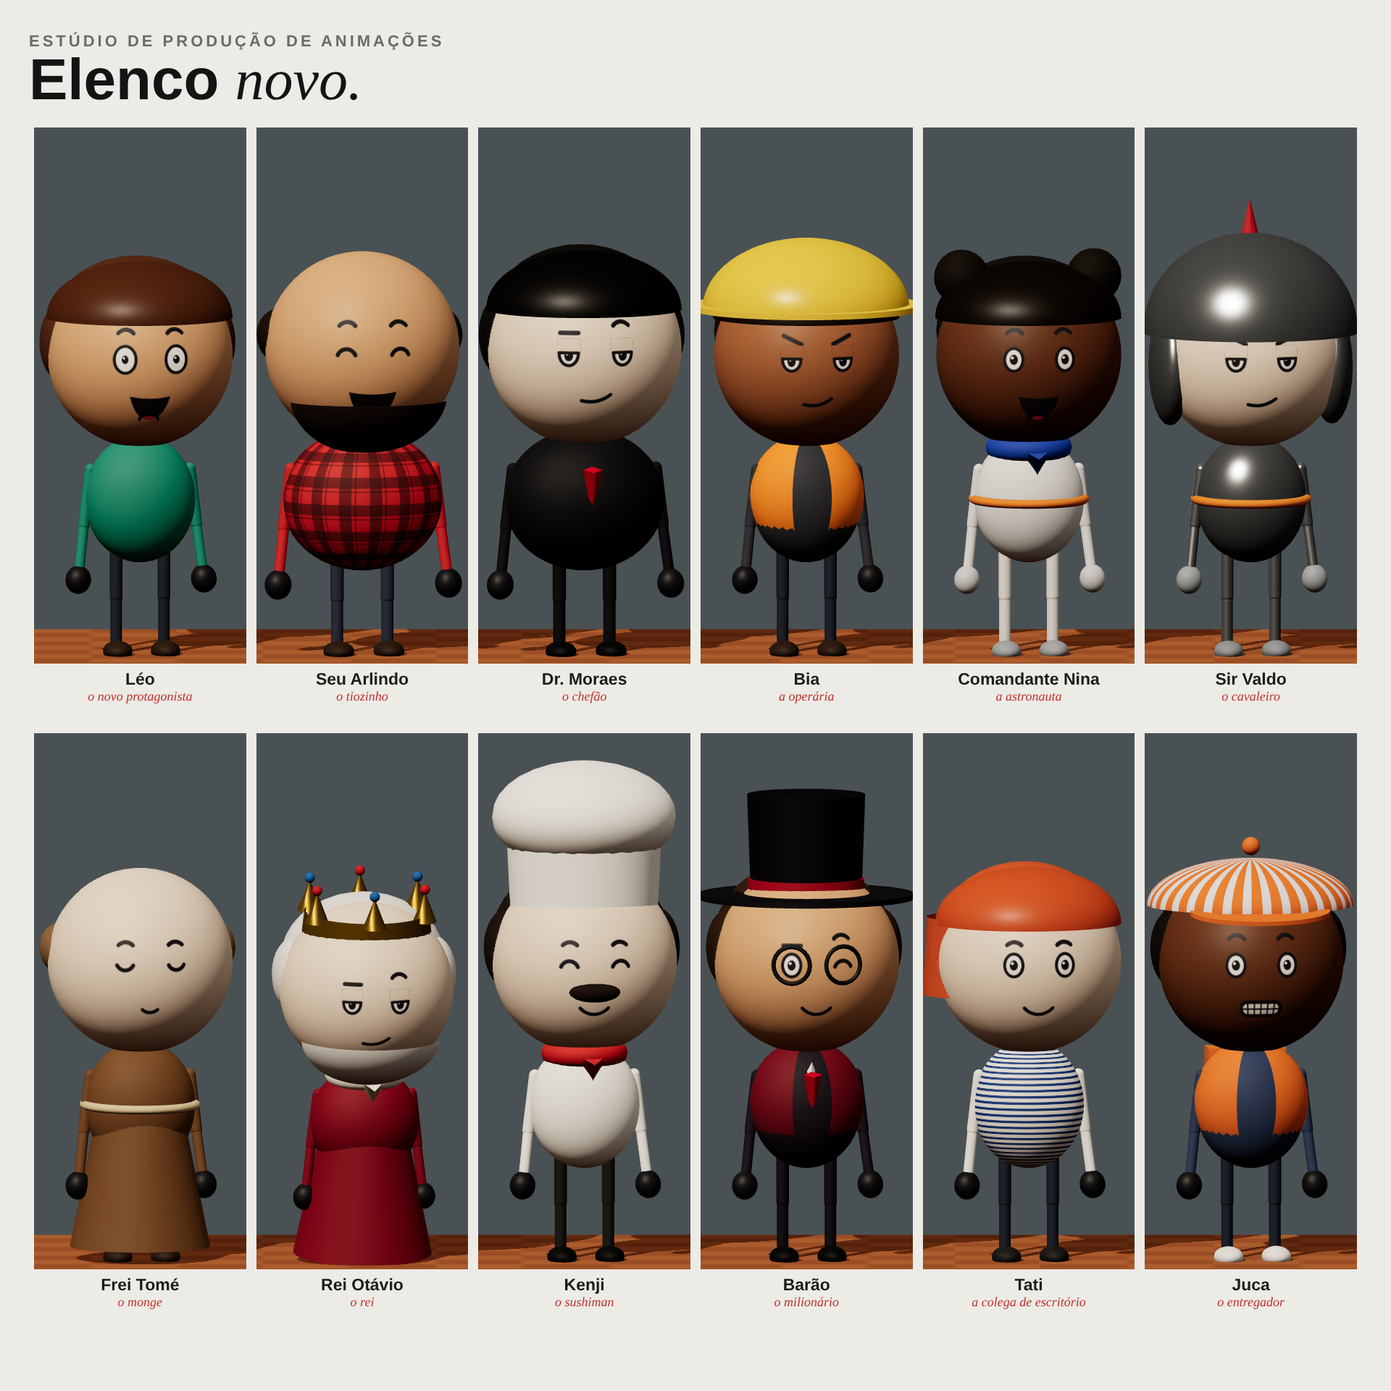
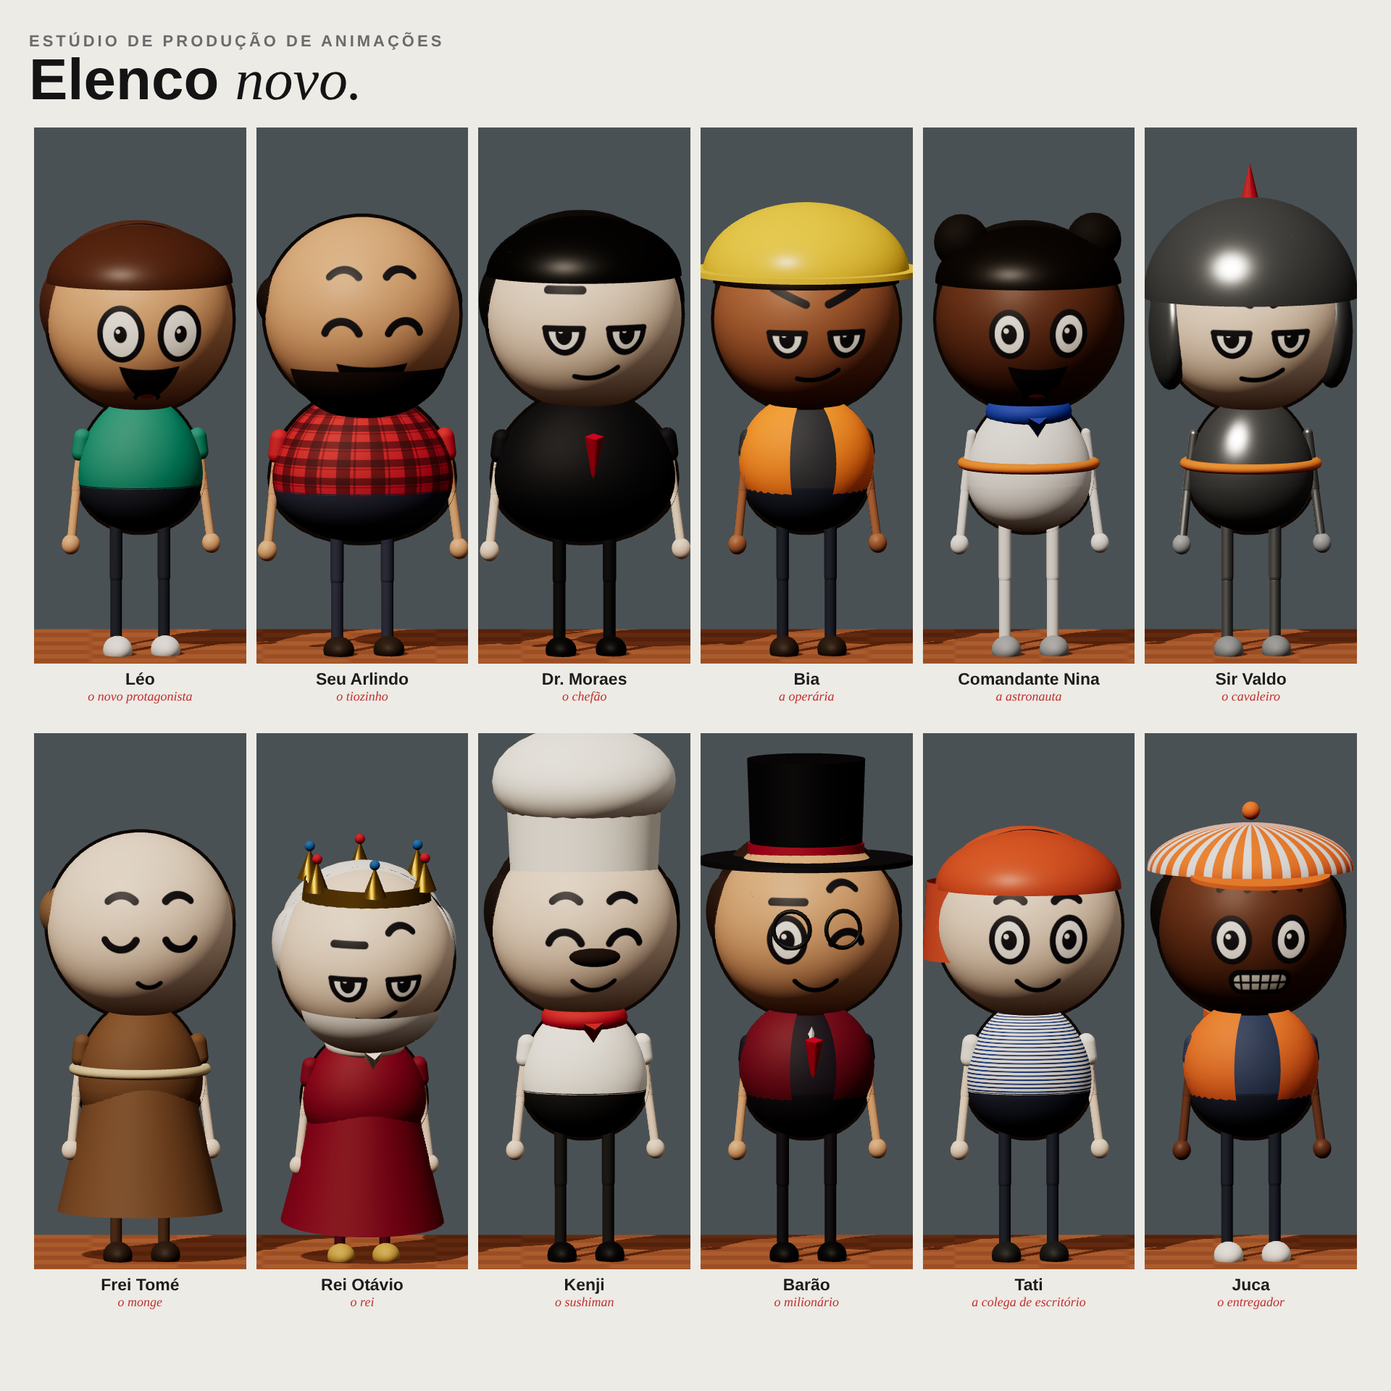
Estilo 'video': corpo e rosto iguais aos Shorts de referência
- Tronco em ovo (camisa em cima, calça embaixo), pernas mais longas, tronco maior
- Braço cor de pele com manguinha e mão pequena clara
- Olhos, sobrancelhas e boca maiores; contorno escuro na cabeça e no tronco
- Pálpebra (olho meio fechado) desenhada por recorte: some o retângulo claro
- Elenco novo (NOVOS) usa o estilo vídeo

Claude-Session: https://claude.ai/code/session_016bHbYKiNFahAkYpXj2UE3y

diff --git a/estudio-animacoes-3d/src/Character.tsx b/estudio-animacoes-3d/src/Character.tsx
@@ -81,6 +81,7 @@ export type Look = {
   metal?: boolean; // armadura
   backpack?: string; // mochila / tanque
   faixa?: string; // faixa colorida na cintura (macacão de astronauta, armadura em gomos)
+  estilo?: 'video'; // 'video' = corpo e rosto dos Shorts de referência (tronco-ovo, pernas longas, olhos grandes, contorno)
 };
 
 export const VOCE: Look = {
@@ -108,7 +109,7 @@ const Mat = ({ color, metal, ...p }: { color: string; metal?: boolean; map?: THR
   <meshStandardMaterial color={color} metalness={metal ? 0.85 : 0} roughness={metal ? 0.25 : p.roughness ?? 0.7} {...p} />
 );
 
-const FaceDecal = ({ face, skin }: { face: FaceState; skin: string }) => {
+const FaceDecal = ({ face, skin, escala = 1 }: { face: FaceState; skin: string; escala?: number }) => {
   const canvas = useMemo(() => {
     const c = document.createElement('canvas');
     c.width = c.height = 512;
@@ -120,9 +121,9 @@ const FaceDecal = ({ face, skin }: { face: FaceState; skin: string }) => {
     t.anisotropy = 8;
     return t;
   }, [canvas]);
-  const key = `${face.f}|${face.blink}|${face.o.join(',')}|${skin}`;
+  const key = `${face.f}|${face.blink}|${face.o.join(',')}|${skin}|${escala}`;
   useMemo(() => {
-    drawFace(canvas.getContext('2d')!, face.f, face.blink, face.o, skin);
+    drawFace(canvas.getContext('2d')!, face.f, face.blink, face.o, skin, escala);
     tex.needsUpdate = true;
   }, [key]); // eslint-disable-line react-hooks/exhaustive-deps
   const L = 1.95;
@@ -141,19 +142,61 @@ const Limb = ({ len, r, color, metal }: { len: number; r: number; color: string;
   </mesh>
 );
 
-const Arm = ({ side, sz, sx, el, look, sh, hand }: { side: 1 | -1; sz: number; sx: number; el: number; look: Look; sh: number; hand?: ReactNode }) => (
-  <group position={[side * sh, 1.0, 0]} rotation={new THREE.Euler(-sx, 0, side * sz, 'ZXY')}>
-    <Limb len={0.3} r={0.032} color={look.jacket} metal={look.metal} />
-    <group position={[0, -0.3, 0]} rotation={[-el, 0, 0]}>
-      <Limb len={0.27} r={0.028} color={look.coat ?? look.jacket} metal={look.metal} />
-      <group position={[0, -0.3, 0]}>
-        <mesh castShadow scale={[1, 1.1, 0.9]}>
-          <sphereGeometry args={[0.07, 16, 12]} />
-          <Mat color={look.gloves} roughness={0.5} />
+const Arm = ({ side, sz, sx, el, look, sh, hand }: { side: 1 | -1; sz: number; sx: number; el: number; look: Look; sh: number; hand?: ReactNode }) => {
+  // Estilo vídeo: braço cor de pele com manguinha curta e mão pequena clara (exceto armadura/macacão).
+  const V = look.estilo === 'video';
+  const nu = V && !look.metal && !look.coat && look.gloves !== look.jacket;
+  const braco = nu ? look.skin : look.jacket;
+  const mao = V && !look.metal ? (nu ? look.skin : look.gloves) : look.gloves;
+  return (
+    <group position={[side * sh, 1.0, 0]} rotation={new THREE.Euler(-sx, 0, side * sz, 'ZXY')}>
+      <Limb len={0.3} r={V ? 0.026 : 0.032} color={braco} metal={look.metal} />
+      {nu && (
+        <mesh position={[0, -0.06, 0]} castShadow>
+          <capsuleGeometry args={[0.05, 0.08, 4, 10]} />
+          <Mat color={look.jacket} />
         </mesh>
-        {hand}
+      )}
+      <group position={[0, -0.3, 0]} rotation={[-el, 0, 0]}>
+        <Limb len={0.27} r={V ? 0.024 : 0.028} color={nu ? look.skin : look.coat ?? look.jacket} metal={look.metal} />
+        <group position={[0, -0.3, 0]}>
+          <mesh castShadow scale={[1, 1.1, 0.9]}>
+            <sphereGeometry args={[V ? 0.05 : 0.07, 16, 12]} />
+            <Mat color={mao} roughness={0.5} />
+          </mesh>
+          {hand}
+        </group>
       </group>
     </group>
+  );
+};
+
+// Tronco em forma de ovo (estilo vídeo): mais largo embaixo; em cima a camisa, embaixo a calça.
+const ovoPontos = (de: number, ate: number) => {
+  const pts: THREE.Vector2[] = [];
+  for (let i = 0; i <= 20; i++) {
+    const th = de + ((ate - de) * i) / 20;
+    const R = 0.285 - 0.045 * Math.sin(th);
+    pts.push(new THREE.Vector2(Math.max(0.0001, R * Math.cos(th)), 0.3 * Math.sin(th)));
+  }
+  return pts;
+};
+const CORTE = -0.32; // onde a camisa encontra a calça (ângulo)
+const GEO_CAMISA = new THREE.LatheGeometry(ovoPontos(CORTE, Math.PI / 2), 40);
+const GEO_CALCA = new THREE.LatheGeometry(ovoPontos(-Math.PI / 2, CORTE + 0.02), 40);
+const GEO_OVO = new THREE.LatheGeometry(ovoPontos(-Math.PI / 2, Math.PI / 2), 40);
+const CONTORNO = '#1f1712';
+const TroncoOvo = ({ look, scale, map }: { look: Look; scale: [number, number, number]; map?: THREE.Texture }) => (
+  <group position={[0, 0.84, 0]} scale={scale}>
+    <mesh geometry={GEO_CAMISA} castShadow>
+      <Mat color={map ? '#ffffff' : look.jacket} map={map} metal={look.metal} side={THREE.DoubleSide} />
+    </mesh>
+    <mesh geometry={GEO_CALCA} castShadow>
+      <Mat color={look.skirt ? look.skirt.color : look.pants} metal={look.metal} side={THREE.DoubleSide} />
+    </mesh>
+    <mesh geometry={GEO_OVO} scale={1.045}>
+      <meshBasicMaterial color={CONTORNO} side={THREE.BackSide} />
+    </mesh>
   </group>
 );
 
@@ -553,50 +596,59 @@ export const Character = ({
   const swing = Math.sin(ph) * 0.55 * p.stride;
   const bob = Math.abs(Math.sin(ph)) * 0.07 * p.stride;
   const sq = 1 - p.squash * 0.18;
-  const dy = 0.55 * (b.legs - 1);
+  const V = look.estilo === 'video';
+  const pernas = b.legs * (V ? 1.35 : 1);
+  // Estilo vídeo: tronco maior em relação à cabeça, ombros mais abertos.
+  const torso: [number, number, number] = V ? [b.torso[0] * 1.18, b.torso[1] * 1.08, b.torso[2] * 1.18] : b.torso;
+  const ombro = V ? b.sh * 1.15 : b.sh;
+  const dy = 0.55 * (pernas - 1);
   const torsoMap = look.pattern && look.pattern !== 'liso' ? patternTex(look.pattern, look.jacket, look.pattern2 ?? '#f4f0e8', look.patternH) : undefined;
   return (
     <group position={[p.x, p.y + bob, p.z]} rotation={[0, p.ry, 0]} scale={b.s}>
-      <group scale={[1, b.legs, 1]}>
+      <group scale={[1, pernas, 1]}>
         <Leg side={1} swing={swing} tap={p.ltap} look={look} />
         <Leg side={-1} swing={-swing} tap={p.rtap} look={look} />
       </group>
       <group position={[0, 0.55 + dy, 0]} scale={[2 - sq, sq, 2 - sq]}>
         <group rotation={[p.lean + b.lean, p.twist, p.side]} position={[0, -0.55, 0]}>
           {/* Tronco arredondado */}
-          <mesh position={[0, 0.84, 0]} scale={b.torso} castShadow>
-            <sphereGeometry args={[0.3, 32, 24]} />
-            <Mat color={torsoMap ? '#ffffff' : look.jacket} map={torsoMap} metal={look.metal} />
-          </mesh>
+          {V ? (
+            <TroncoOvo look={look} scale={torso} map={torsoMap} />
+          ) : (
+            <mesh position={[0, 0.84, 0]} scale={b.torso} castShadow>
+              <sphereGeometry args={[0.3, 32, 24]} />
+              <Mat color={torsoMap ? '#ffffff' : look.jacket} map={torsoMap} metal={look.metal} />
+            </mesh>
+          )}
           {look.faixa && (
-            <mesh position={[0, 0.84, 0]} scale={b.torso} rotation={[Math.PI / 2, 0, 0]}>
+            <mesh position={[0, 0.84, 0]} scale={torso} rotation={[Math.PI / 2, 0, 0]}>
               <torusGeometry args={[0.298, 0.028, 10, 40]} />
               <Mat color={look.faixa} />
             </mesh>
           )}
           {look.backpack && (
-            <mesh position={[0, 0.88, -0.3 * b.torso[2]]} castShadow>
+            <mesh position={[0, 0.88, -0.3 * torso[2]]} castShadow>
               <boxGeometry args={[0.42, 0.5, 0.2]} />
               <Mat color={look.backpack} />
             </mesh>
           )}
-          {look.coat && <OpenShell color={look.coat} scale={[b.torso[0] * 1.05, b.torso[1] * 1.05, b.torso[2] * 1.06]} />}
+          {look.coat && <OpenShell color={look.coat} scale={[torso[0] * 1.05, torso[1] * 1.05, torso[2] * 1.06]} />}
           {look.coat && (
             <mesh position={[0, 0.55, 0]} castShadow>
-              <cylinderGeometry args={[0.29 * b.torso[0], 0.34 * b.torso[0], 0.5, 32, 1, true, Math.PI / 2 + 0.45, Math.PI * 2 - 0.9]} />
+              <cylinderGeometry args={[0.29 * torso[0], 0.34 * torso[0], 0.5, 32, 1, true, Math.PI / 2 + 0.45, Math.PI * 2 - 0.9]} />
               <Mat color={look.coat} side={THREE.DoubleSide} />
             </mesh>
           )}
-          {look.vest && <OpenShell color={look.vest} scale={[b.torso[0] * 1.04, b.torso[1] * 0.96, b.torso[2] * 1.05]} gap={0.35} y={0.86} />}
+          {look.vest && <OpenShell color={look.vest} scale={[torso[0] * 1.04, torso[1] * 0.96, torso[2] * 1.05]} gap={0.35} y={0.86} />}
           {look.skirt && (
             <mesh position={[0, look.skirt.long ? 0.42 : 0.62, 0]} castShadow>
-              <cylinderGeometry args={[0.24 * b.torso[0], (look.skirt.long ? 0.38 : 0.32) * b.torso[0], look.skirt.long ? 0.7 : 0.3, 32]} />
+              <cylinderGeometry args={[0.24 * torso[0], (look.skirt.long ? 0.38 : 0.32) * torso[0], look.skirt.long ? 0.7 : 0.3, 32]} />
               <Mat color={look.skirt.color} />
             </mesh>
           )}
           {look.apron && (
-            <mesh position={[0, 0.7, 0.27 * b.torso[2]]} rotation={[0.08, 0, 0]}>
-              <planeGeometry args={[0.36 * b.torso[0], 0.62]} />
+            <mesh position={[0, 0.7, 0.27 * torso[2]]} rotation={[0.08, 0, 0]}>
+              <planeGeometry args={[0.36 * torso[0], 0.62]} />
               <Mat color={look.apron} side={THREE.DoubleSide} />
             </mesh>
           )}
@@ -607,7 +659,7 @@ export const Character = ({
             </mesh>
           )}
           {look.tie && (
-            <mesh position={[0, 0.9, 0.255 * b.torso[2] / 0.85]} rotation={[0.25, 0, Math.PI]}>
+            <mesh position={[0, 0.9, 0.255 * torso[2] / 0.85]} rotation={[0.25, 0, Math.PI]}>
               <coneGeometry args={[0.05, 0.26, 4]} />
               <Mat color={look.tie} roughness={0.5} />
             </mesh>
@@ -631,8 +683,8 @@ export const Character = ({
                 <Mat color="#efeee8" roughness={0.9} />
               </mesh>
             ))}
-          <Arm side={1} sz={p.lsz} sx={p.lsx} el={p.lel} look={look} sh={b.sh} hand={left} />
-          <Arm side={-1} sz={p.rsz} sx={p.rsx} el={p.rel} look={look} sh={b.sh} hand={right} />
+          <Arm side={1} sz={p.lsz} sx={p.lsx} el={p.lel} look={look} sh={ombro} hand={left} />
+          <Arm side={-1} sz={p.rsz} sx={p.rsx} el={p.rel} look={look} sh={ombro} hand={right} />
           {/* Cabeça */}
           <group position={[0, 1.18, 0]} rotation={new THREE.Euler(p.hp, p.hy, p.hr, 'YXZ')}>
             <group position={[0, (HEAD_Y - 1.18) * b.head, 0]} scale={b.head}>
@@ -640,7 +692,13 @@ export const Character = ({
                 <sphereGeometry args={[HEAD_R, 48, 32]} />
                 <Mat color={look.skin} roughness={0.55} />
               </mesh>
-              <FaceDecal face={face} skin={look.skin} />
+              {V && (
+                <mesh scale={1.035}>
+                  <sphereGeometry args={[HEAD_R, 40, 28]} />
+                  <meshBasicMaterial color={CONTORNO} side={THREE.BackSide} />
+                </mesh>
+              )}
+              <FaceDecal face={face} skin={look.skin} escala={V ? 1.95 : 1} />
               <Hair look={look} />
               <Beard look={look} />
               <Eyewear look={look} />

diff --git a/estudio-animacoes-3d/src/personagens.ts b/estudio-animacoes-3d/src/personagens.ts
@@ -147,50 +147,50 @@ export const ROUPAS = {
 export const NOVOS = {
   leo: {
     nome: 'Léo', papel: 'o novo protagonista', rosto: 'bigSmile',
-    look: { skin: PELE.media, jacket: '#2f8f7a', pants: '#2e3442', shoes: '#3a2a1e', gloves: MAO, hair: '#5b351f', hairStyle: 'liso' },
+    look: { estilo: 'video', skin: PELE.media, jacket: '#2f8f7a', pants: '#2e3442', shoes: '#e6e6ea', gloves: MAO, hair: '#5b351f', hairStyle: 'liso' },
   },
   arlindo: {
     nome: 'Seu Arlindo', papel: 'o tiozinho', rosto: 'laugh',
-    look: { skin: PELE.media, jacket: '#c8352f', pattern: 'xadrez', pattern2: '#3a1414', pants: '#3a3f55', shoes: '#3a2a1e', gloves: MAO, hair: '#2a1a12', hairStyle: 'careca', beard: 'barba', body: 'forte' },
+    look: { estilo: 'video', skin: PELE.media, jacket: '#c8352f', pattern: 'xadrez', pattern2: '#3a1414', pants: '#3a3f55', shoes: '#3a2a1e', gloves: MAO, hair: '#2a1a12', hairStyle: 'careca', beard: 'barba', body: 'forte' },
   },
   moraes: {
     nome: 'Dr. Moraes', papel: 'o chefão', rosto: 'smug',
-    look: { skin: PELE.clara, jacket: '#16171c', pants: '#16171c', shoes: '#0c0c0e', gloves: MAO, hair: '#0f0c0a', hairStyle: 'liso', shirt: '#ffffff', tie: '#c8242a', body: 'forte' },
+    look: { estilo: 'video', skin: PELE.clara, jacket: '#16171c', pants: '#16171c', shoes: '#0c0c0e', gloves: MAO, hair: '#0f0c0a', hairStyle: 'liso', shirt: '#ffffff', tie: '#c8242a', body: 'forte' },
   },
   bia: {
     nome: 'Bia', papel: 'a operária', rosto: 'confident',
-    look: { skin: PELE.morena, jacket: '#3d4048', pants: '#2c3346', shoes: '#3a2a1e', gloves: MAO, hair: '#2a1a12', hairStyle: 'rabo', vest: '#ff8a1e', hat: 'capacete', hatColor: '#f2c62e' },
+    look: { estilo: 'video', skin: PELE.morena, jacket: '#3d4048', pants: '#2c3346', shoes: '#3a2a1e', gloves: MAO, hair: '#2a1a12', hairStyle: 'rabo', vest: '#ff8a1e', hat: 'capacete', hatColor: '#f2c62e' },
   },
   nina: {
     nome: 'Comandante Nina', papel: 'a astronauta', rosto: 'happy',
-    look: { skin: PELE.escura, jacket: '#e4e6ea', pants: '#e4e6ea', shoes: '#9aa0a8', gloves: '#c8ccd2', hair: '#1a120c', hairStyle: 'coque', faixa: '#e8822a', scarf: '#3256b8' },
+    look: { estilo: 'video', skin: PELE.escura, jacket: '#e4e6ea', pants: '#e4e6ea', shoes: '#9aa0a8', gloves: '#e4e6ea', hair: '#1a120c', hairStyle: 'coque', faixa: '#e8822a', scarf: '#3256b8' },
   },
   valdo: {
     nome: 'Sir Valdo', papel: 'o cavaleiro', rosto: 'confident',
-    look: { skin: PELE.clara, jacket: '#b9c0c8', pants: '#b9c0c8', shoes: '#8a9098', gloves: '#9aa2ab', hair: '#3a2416', hat: 'cavaleiro', metal: true, faixa: '#e8822a' },
+    look: { estilo: 'video', skin: PELE.clara, jacket: '#b9c0c8', pants: '#b9c0c8', shoes: '#8a9098', gloves: '#9aa2ab', hair: '#3a2416', hat: 'cavaleiro', metal: true, faixa: '#e8822a' },
   },
   tome: {
     nome: 'Frei Tomé', papel: 'o monge', rosto: 'content',
-    look: { skin: PELE.clara, jacket: '#7a5634', pants: '#5a3e26', shoes: '#3a2a1e', gloves: MAO, hair: '#8a6a4a', hairStyle: 'careca', skirt: { color: '#7a5634', long: true }, faixa: '#d8c49a' },
+    look: { estilo: 'video', skin: PELE.clara, jacket: '#7a5634', pants: '#5a3e26', shoes: '#3a2a1e', gloves: MAO, hair: '#8a6a4a', hairStyle: 'careca', skirt: { color: '#7a5634', long: true }, faixa: '#d8c49a' },
   },
   otavio: {
     nome: 'Rei Otávio', papel: 'o rei', rosto: 'smug',
-    look: { skin: PELE.clara, jacket: '#8a1f2a', pants: '#5a1420', shoes: '#c9a14a', gloves: MAO, hair: '#e6e6e6', beard: 'barba', hat: 'coroa', scarf: '#f4f0e8', skirt: { color: '#8a1f2a', long: true }, body: 'idoso' },
+    look: { estilo: 'video', skin: PELE.clara, jacket: '#8a1f2a', pants: '#5a1420', shoes: '#c9a14a', gloves: MAO, hair: '#e6e6e6', beard: 'barba', hat: 'coroa', scarf: '#f4f0e8', skirt: { color: '#8a1f2a', long: true }, body: 'idoso' },
   },
   kenji: {
     nome: 'Kenji', papel: 'o sushiman', rosto: 'closedSmile',
-    look: { skin: PELE.clara, jacket: '#fbfbf8', pants: '#2a2a2a', shoes: '#111', gloves: MAO, hair: '#2a1e18', beard: 'bigode', hat: 'chef', scarf: '#c8352f' },
+    look: { estilo: 'video', skin: PELE.clara, jacket: '#fbfbf8', pants: '#2a2a2a', shoes: '#111', gloves: MAO, hair: '#2a1e18', beard: 'bigode', hat: 'chef', scarf: '#c8352f' },
   },
   barao: {
     nome: 'Barão', papel: 'o milionário', rosto: 'wink',
-    look: { skin: PELE.media, jacket: '#2a2230', pants: '#1f1a24', shoes: '#0c0c0e', gloves: MAO, hair: '#3a2416', hat: 'cartola', hatColor: '#141218', shirt: '#ffffff', tie: '#c8242a', vest: '#7a1f2a', eyewear: 'grau' },
+    look: { estilo: 'video', skin: PELE.media, jacket: '#2a2230', pants: '#1f1a24', shoes: '#0c0c0e', gloves: MAO, hair: '#3a2416', hat: 'cartola', hatColor: '#141218', shirt: '#ffffff', tie: '#c8242a', vest: '#7a1f2a', eyewear: 'grau' },
   },
   tati: {
     nome: 'Tati', papel: 'a colega de escritório', rosto: 'smile',
-    look: { skin: PELE.clara, jacket: '#f4f4f2', pattern: 'listras', pattern2: '#2f4f8f', patternH: true, pants: '#2c3346', shoes: '#2a2a2a', gloves: MAO, hair: '#c8572b', hairStyle: 'chanel' },
+    look: { estilo: 'video', skin: PELE.clara, jacket: '#f4f4f2', pattern: 'listras', pattern2: '#2f4f8f', patternH: true, pants: '#2c3346', shoes: '#2a2a2a', gloves: MAO, hair: '#c8572b', hairStyle: 'chanel' },
   },
   juca: {
     nome: 'Juca', papel: 'o entregador', rosto: 'grin',
-    look: { skin: PELE.escura, jacket: '#3a4a6a', pants: '#2c3346', shoes: '#f2f2f2', gloves: MAO, hair: '#1a120c', hat: 'bone', hatColor: '#e8742a', vest: '#e8742a', backpack: '#e8742a' },
+    look: { estilo: 'video', skin: PELE.escura, jacket: '#3a4a6a', pants: '#2c3346', shoes: '#f2f2f2', gloves: MAO, hair: '#1a120c', hat: 'bone', hatColor: '#e8742a', vest: '#e8742a', backpack: '#e8742a' },
   },
 } satisfies Record<string, Membro>;

diff --git a/estudio-animacoes-3d/src/textures.ts b/estudio-animacoes-3d/src/textures.ts
@@ -127,17 +127,20 @@ const drawEye = (c: CanvasRenderingContext2D, kind: Eyes, x: number, y: number, 
       return side < 0 ? open(26, 32, 12) : drawEye(c, 'happy', x, y, side, skin);
     case 'half':
     case 'angry': {
-      open(26, 32, 12, 0, 6);
-      c.fillStyle = skin;
+      // Desenha só a parte do olho abaixo da pálpebra (recorte), sem pintar cor de pele por cima:
+      // assim não aparece um retângulo de outra cor sobre o rosto.
+      c.save();
       c.beginPath();
-      if (kind === 'half') c.rect(x - 32, y - 40, 64, 38);
+      if (kind === 'half') c.rect(x - 40, y - 2, 80, 60);
       else {
-        c.moveTo(x - 34, y - 40 + (side < 0 ? 0 : 22));
-        c.lineTo(x + 34, y - 40 + (side < 0 ? 22 : 0));
-        c.lineTo(x + 34, y - 44);
-        c.lineTo(x - 34, y - 44);
+        c.moveTo(x - 40, y - 34 + (side < 0 ? 4 : 22) + (side < 0 ? -2 : 0));
+        c.lineTo(x + 40, y - 34 + (side < 0 ? 22 : 4));
+        c.lineTo(x + 40, y + 60);
+        c.lineTo(x - 40, y + 60);
       }
-      c.fill();
+      c.clip();
+      open(26, 32, 12, 0, 6);
+      c.restore();
       line(c, 9);
       c.beginPath();
       if (kind === 'half') {
@@ -387,7 +390,18 @@ export const useFacesReady = () => {
 };
 
 // Desenha o rosto no canvas. blink: 0 aberto, 0.5 meio fechado, 1 fechado.
-export function drawFace(c: CanvasRenderingContext2D, face: FaceName, blink: number, overlays: OverlayName[], skin: string) {
+// escala > 1 = olhos, sobrancelhas e boca maiores (estilo dos Shorts de referência), olhos um pouco mais baixos e afastados.
+const olhos = (escala: number): [number, number][] =>
+  escala > 1 ? EYES.map(([x, y], i) => [x + (i === 0 ? -14 : 14), y + 30] as [number, number]) : EYES;
+const emVolta = (c: CanvasRenderingContext2D, x: number, y: number, k: number, draw: () => void) => {
+  c.save();
+  c.translate(x, y);
+  c.scale(k, k);
+  c.translate(-x, -y);
+  draw();
+  c.restore();
+};
+export function drawFace(c: CanvasRenderingContext2D, face: FaceName, blink: number, overlays: OverlayName[], skin: string, escala = 1) {
   c.clearRect(0, 0, 512, 512);
   if (overlays.includes('shading')) {
     const s = imgs[OVERLAYS.shading];
@@ -398,14 +412,19 @@ export function drawFace(c: CanvasRenderingContext2D, face: FaceName, blink: num
   if (kit) c.drawImage(kit, 0, 0);
   else {
     const [e, b, m] = RECEITA[face];
-    EYES.forEach(([x, y], i) => {
-      drawBrow(c, b, x, y, i === 0 ? -1 : 1);
-      drawEye(c, e, x, y, i === 0 ? -1 : 1, skin);
+    olhos(escala).forEach(([x, y], i) =>
+      emVolta(c, x, y, escala, () => {
+        drawBrow(c, b, x, y, i === 0 ? -1 : 1);
+        drawEye(c, e, x, y, i === 0 ? -1 : 1, skin);
+      }),
+    );
+    emVolta(c, 256, escala > 1 ? 345 : 335, 1 + (escala - 1) * 0.6, () => {
+      if (escala > 1) c.translate(0, 18);
+      drawMouth(c, m);
     });
-    drawMouth(c, m);
   }
   if (blink > 0) {
-    for (const [x, y] of EYES) {
+    for (const [x, y] of olhos(escala)) emVolta(c, x, y, escala, () => {
       c.fillStyle = skin;
       c.beginPath();
       if (blink >= 1) c.ellipse(x, y, 42, 46, 0, 0, Math.PI * 2);
@@ -419,7 +438,7 @@ export function drawFace(c: CanvasRenderingContext2D, face: FaceName, blink: num
         c.lineTo(x + 30, y + 2);
       }
       c.stroke();
-    }
+    });
   }
   for (const o of overlays) {
     if (o === 'shading') continue;

diff --git a/estudio-animacoes-3d/CLAUDE.md b/estudio-animacoes-3d/CLAUDE.md
@@ -177,7 +177,7 @@ o segundo em que a palavra começa (linha começa em 0; busca pelo começo da pa
   `body` ('adulto' | 'magro' | 'forte' | 'crianca' | 'idoso' | 'baixo'),
   `hairStyle` ('curto' | 'liso' | 'longo' | 'coque' | 'crespo' | 'careca' | 'chanel' | 'rabo' | 'nenhum'),
   `hat` + `hatColor` ('bone' | 'gorro' | 'touca' | 'boina' | 'policia' | 'chef' | 'capacete' | 'explorador' | 'astronauta' |
-  'cavaleiro' | 'farao' | 'marinheiro' | 'piloto' | 'capuz' | 'coroa' | 'cartola'), `faixa` (faixa colorida na cintura), `eyewear` ('grau' | 'escuro' | 'mergulho' | 'aviador'),
+  'cavaleiro' | 'farao' | 'marinheiro' | 'piloto' | 'capuz' | 'coroa' | 'cartola'), `faixa` (faixa colorida na cintura), `estilo: 'video'` (corpo e rosto dos Shorts de referência: tronco em ovo camisa+calça, pernas longas, braço cor de pele com manguinha, olhos grandes e contorno escuro — o elenco novo já usa), `eyewear` ('grau' | 'escuro' | 'mergulho' | 'aviador'),
   `beard` ('bigode' | 'barba'), `pattern` + `pattern2` + `patternH` ('listras' | 'xadrez' | 'florido' | 'acolchoado'),
   `coat` (jaleco), `vest` (colete), `apron` (avental), `skirt` ({ color, long }), `shorts`, `scarf`, `tie`, `shirt`,
   `metal` (armadura), `backpack` (mochila/tanque). Mãos claras: `gloves` = cor da pele (ou branco no estilo "rosto branco").
